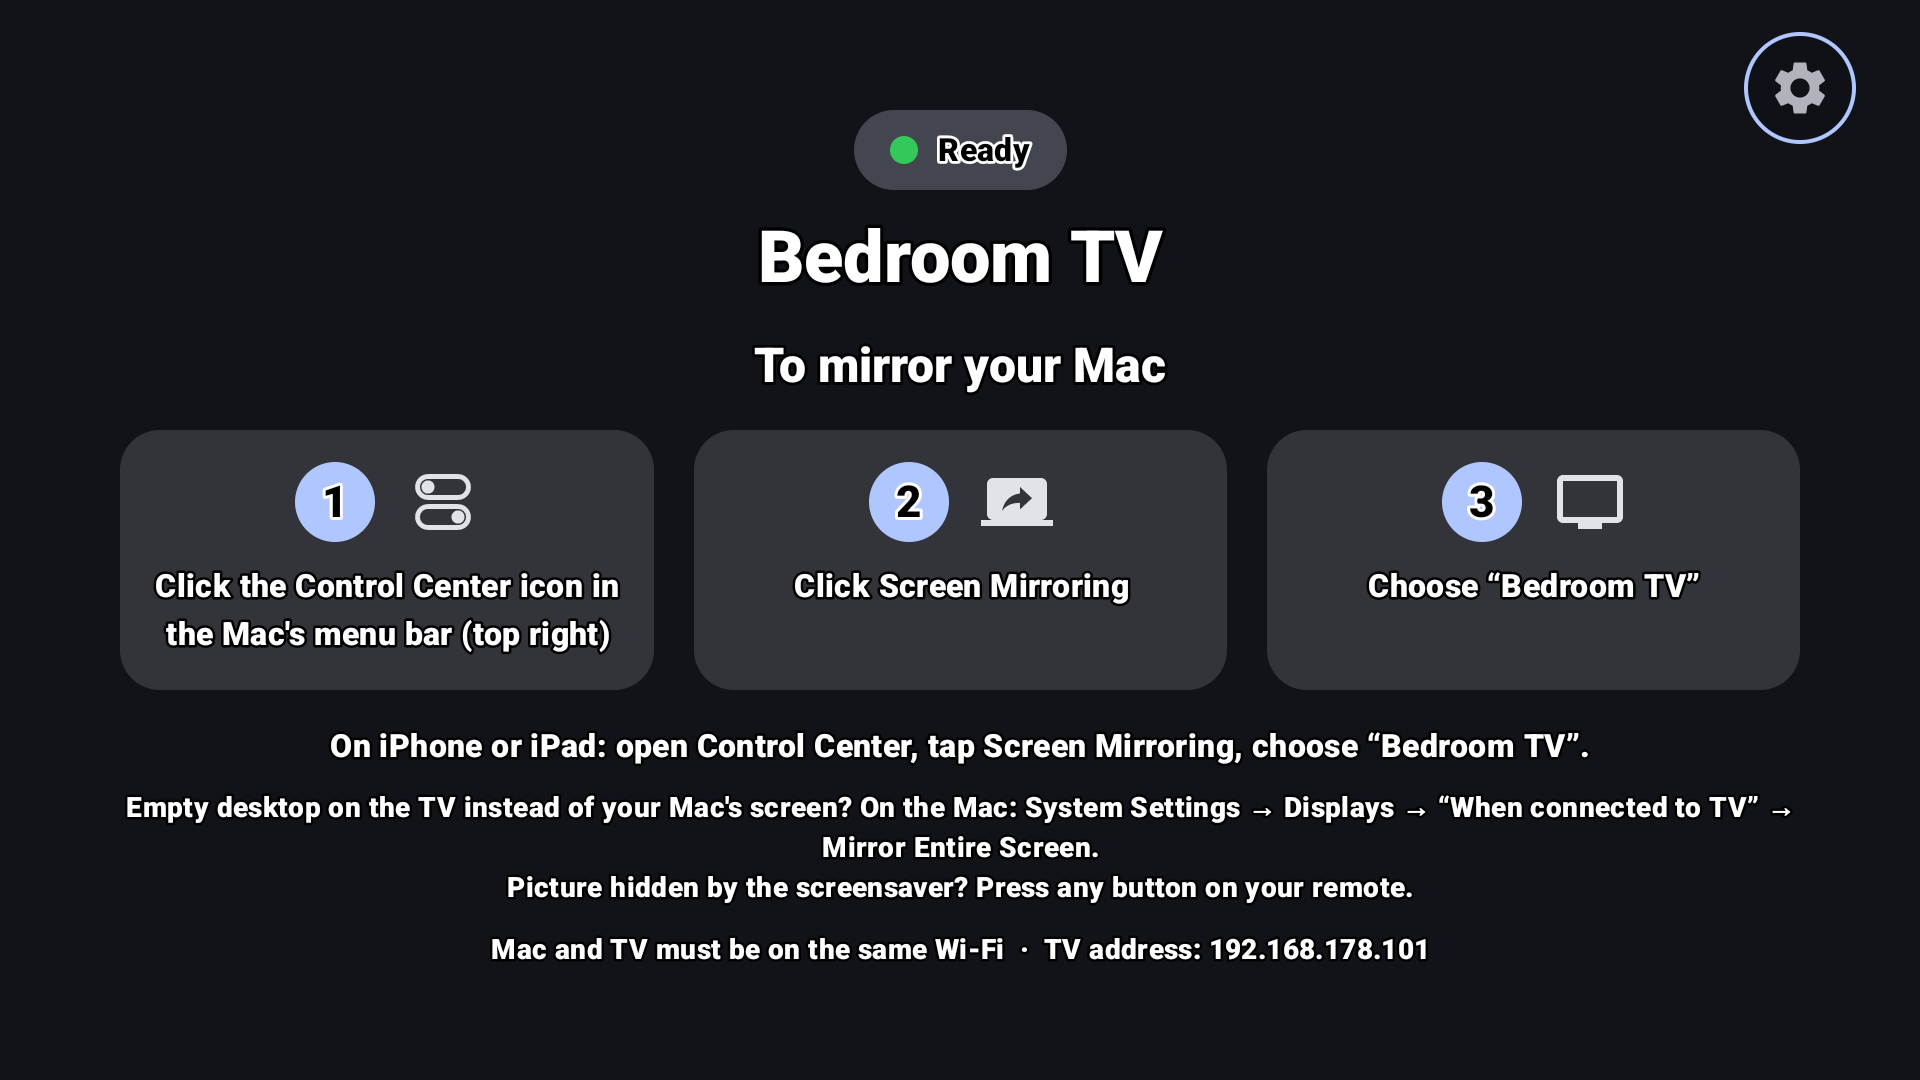
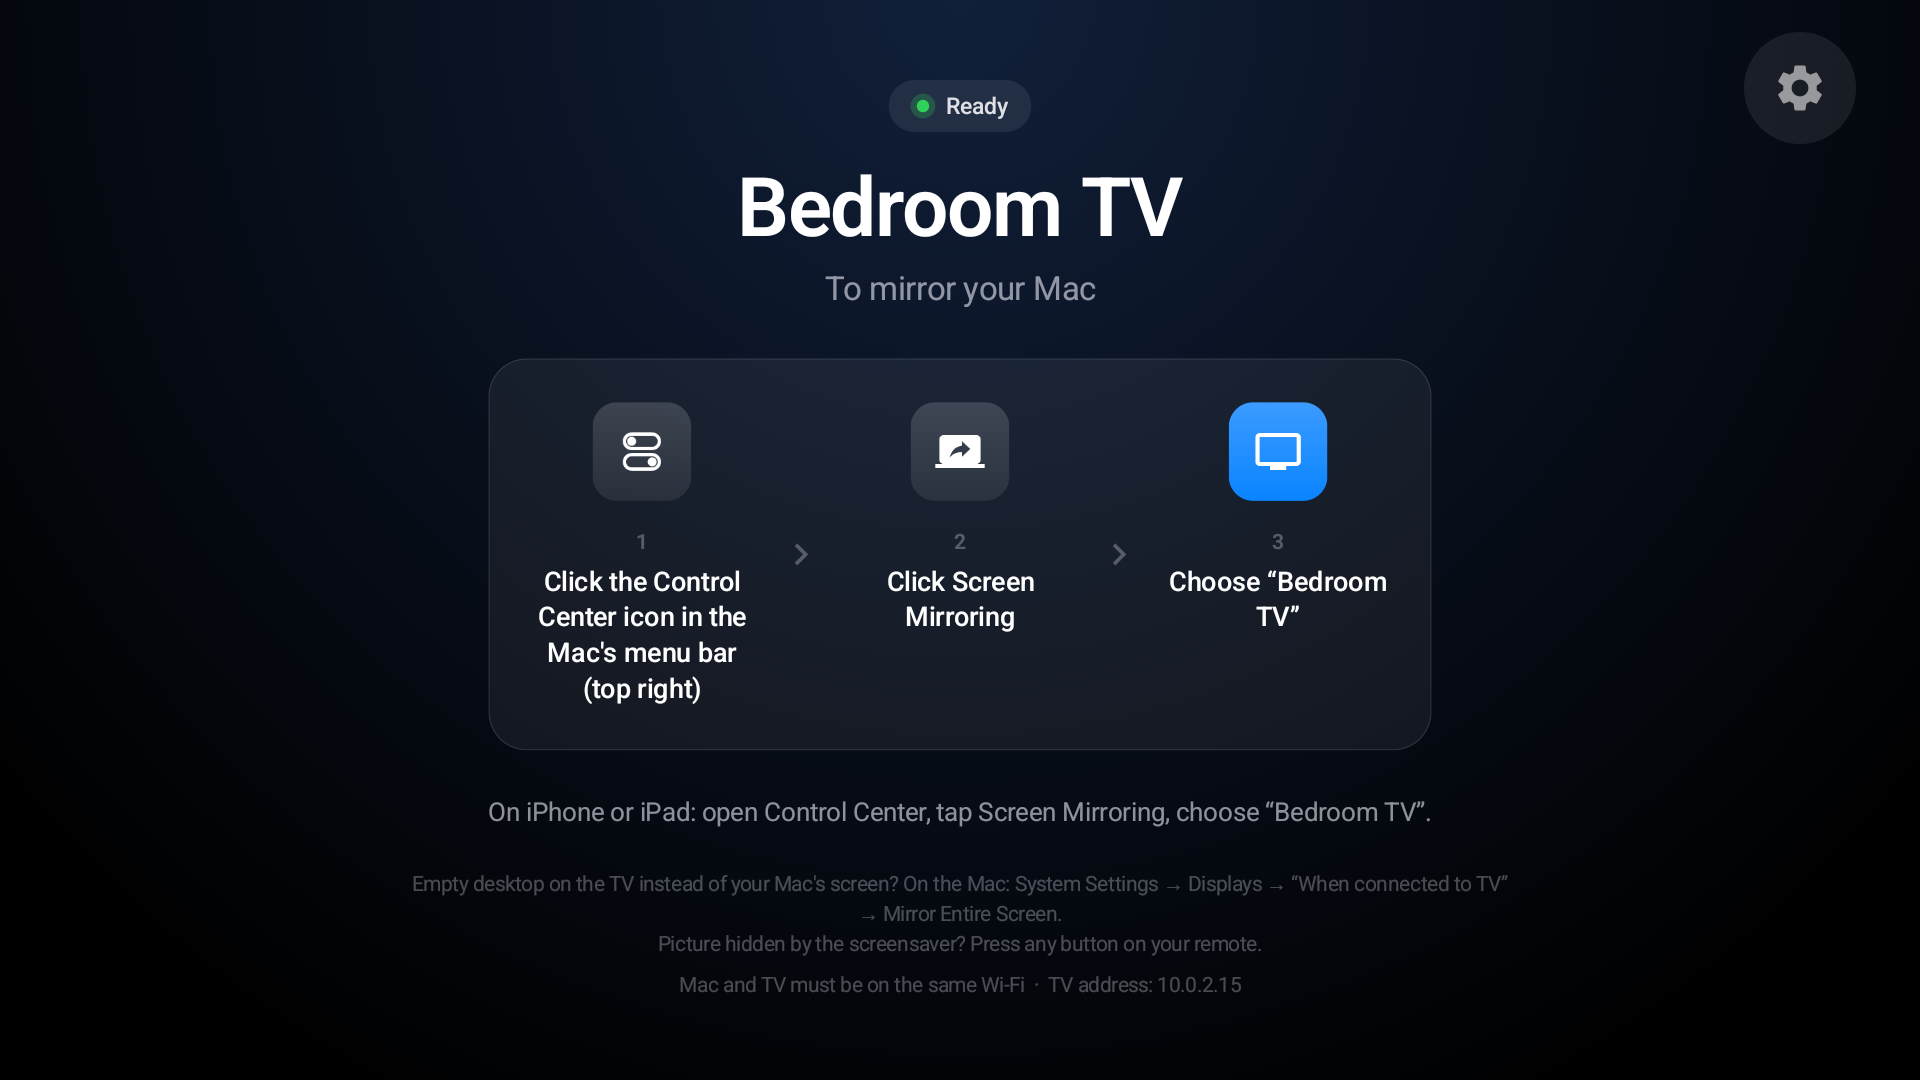
TV: Apple-style Ready screen and dark theme (glass steps panel, system colours, tighter type)

diff --git a/app/src/main/kotlin/io/github/jqssun/airplay/ui/HomeScreen.kt b/app/src/main/kotlin/io/github/jqssun/airplay/ui/HomeScreen.kt
@@ -3,10 +3,12 @@ package io.github.jqssun.airplay.ui
 import android.content.Context
 import android.net.ConnectivityManager
 import androidx.compose.foundation.background
+import androidx.compose.foundation.border
 import androidx.compose.foundation.layout.*
 import androidx.compose.foundation.shape.CircleShape
 import androidx.compose.foundation.shape.RoundedCornerShape
 import androidx.compose.material.icons.Icons
+import androidx.compose.material.icons.automirrored.filled.KeyboardArrowRight
 import androidx.compose.material.icons.automirrored.filled.ScreenShare
 import androidx.compose.material.icons.filled.Tv
 import androidx.compose.material3.*
@@ -15,6 +17,10 @@ import androidx.compose.runtime.collectAsState
 import androidx.compose.runtime.getValue
 import androidx.compose.ui.Alignment
 import androidx.compose.ui.Modifier
+import androidx.compose.ui.draw.clip
+import androidx.compose.ui.draw.drawBehind
+import androidx.compose.ui.geometry.Offset
+import androidx.compose.ui.graphics.Brush
 import androidx.compose.ui.focus.FocusRequester
 import androidx.compose.ui.focus.focusRequester
 import androidx.compose.ui.graphics.Color
@@ -28,6 +34,7 @@ import androidx.compose.ui.text.style.TextOverflow
 import androidx.compose.ui.tooling.preview.Devices
 import androidx.compose.ui.tooling.preview.Preview
 import androidx.compose.ui.unit.dp
+import androidx.compose.ui.unit.sp
 import androidx.compose.ui.layout.Layout
 import androidx.compose.ui.unit.Constraints
 import io.github.jqssun.airplay.R
@@ -44,6 +51,15 @@ fun Context.tvIpv4(): String? = runCatching {
 
 enum class HomeStatus { READY, OFF, ERROR, NEEDS_ACCESS }
 
+// tvOS-like palette for the waiting screen: pure black, white text at Apple's label opacities, system blue/green
+private val Label = Color.White
+private val Secondary = Color(0x99EBEBF5)
+private val Tertiary = Color(0x4DEBEBF5)
+private val Glass = Color.White.copy(alpha = 0.06f)
+private val GlassEdge = Color.White.copy(alpha = 0.10f)
+private val SystemBlue = Color(0xFF0A84FF)
+private val SystemGreen = Color(0xFF30D158)
+
 /** Full-screen, calm waiting screen: TV name, status, the exact clicks on a Mac. */
 @Composable
 fun WaitingContent(
@@ -57,93 +73,104 @@ fun WaitingContent(
     actionFocus: FocusRequester,
     modifier: Modifier = Modifier,
 ) {
+    // soft light from above, like the Apple TV home screen; drawn behind the whole screen
+    Box(Modifier.fillMaxSize().background(Color.Black).drawBehind {
+        drawRect(Brush.radialGradient(
+            listOf(Color(0xFF1C3460).copy(alpha = 0.6f), Color.Transparent),
+            center = Offset(size.width / 2, 0f),
+            radius = size.width * 0.65f,
+        ))
+    })
     // TVs crop a few percent off every edge (overscan): keep ~6% clear, and never let the block run off screen
-    FitToScreen(modifier.fillMaxSize().padding(horizontal = 60.dp, vertical = 32.dp)) {
+    FitToScreen(modifier.fillMaxSize().padding(horizontal = 80.dp, vertical = 40.dp)) {
     Column(
         modifier = Modifier.fillMaxWidth(),
         horizontalAlignment = Alignment.CenterHorizontally,
     ) {
         StatusPill(status)
-        Spacer(Modifier.height(12.dp))
+        Spacer(Modifier.height(20.dp))
         Text(
             text = tvName,
-            style = MaterialTheme.typography.displaySmall,
-            color = MaterialTheme.colorScheme.onBackground,
-            fontWeight = FontWeight.Bold,
+            color = Label,
+            fontSize = 60.sp,
+            lineHeight = 64.sp,
+            letterSpacing = (-1.2).sp,
+            fontWeight = FontWeight.SemiBold,
             textAlign = TextAlign.Center,
             maxLines = 1,
             overflow = TextOverflow.Ellipsis,
         )
 
         if (noticeTitle != null) {
-            Spacer(Modifier.height(20.dp))
-            Card(
-                colors = CardDefaults.cardColors(containerColor = MaterialTheme.colorScheme.secondaryContainer),
-                shape = RoundedCornerShape(16.dp),
-                modifier = Modifier.widthIn(max = 720.dp),
-            ) {
-                Column(Modifier.padding(20.dp), horizontalAlignment = Alignment.CenterHorizontally) {
-                    Text(noticeTitle, style = MaterialTheme.typography.headlineSmall, fontWeight = FontWeight.SemiBold)
-                    Spacer(Modifier.height(6.dp))
-                    if (noticeText != null) Text(
-                        noticeText,
-                        style = MaterialTheme.typography.titleMedium,
-                        textAlign = TextAlign.Center,
-                    )
+            Spacer(Modifier.height(28.dp))
+            GlassPanel(Modifier.widthIn(max = 760.dp)) {
+                Column(Modifier.padding(horizontal = 36.dp, vertical = 28.dp), horizontalAlignment = Alignment.CenterHorizontally) {
+                    Text(noticeTitle, color = Label, fontSize = 26.sp, fontWeight = FontWeight.SemiBold, letterSpacing = (-0.3).sp, textAlign = TextAlign.Center)
+                    if (noticeText != null) {
+                        Spacer(Modifier.height(8.dp))
+                        Text(noticeText, color = Secondary, fontSize = 19.sp, lineHeight = 26.sp, textAlign = TextAlign.Center)
+                    }
                 }
             }
         }
 
         if (actionLabel != null) {
-            Spacer(Modifier.height(24.dp))
-            Button(onClick = onAction, modifier = Modifier.focusRequester(actionFocus).dpadFocus(CircleShape)) {
-                Text(actionLabel, style = MaterialTheme.typography.titleMedium)
+            Spacer(Modifier.height(32.dp))
+            Button(
+                onClick = onAction,
+                colors = ButtonDefaults.buttonColors(containerColor = Color.White, contentColor = Color.Black),
+                contentPadding = PaddingValues(horizontal = 40.dp, vertical = 14.dp),
+                modifier = Modifier.focusRequester(actionFocus).dpadFocus(CircleShape),
+            ) {
+                Text(actionLabel, fontSize = 20.sp, fontWeight = FontWeight.SemiBold)
             }
         }
 
         if (status == HomeStatus.NEEDS_ACCESS) {
-            Spacer(Modifier.height(16.dp))
+            Spacer(Modifier.height(20.dp))
             Text(
                 stringResource(R.string.local_network_desc),
-                style = MaterialTheme.typography.titleMedium,
-                textAlign = TextAlign.Center,
-                color = MaterialTheme.colorScheme.onSurfaceVariant,
+                color = Secondary, fontSize = 19.sp, lineHeight = 26.sp,
+                textAlign = TextAlign.Center, modifier = Modifier.widthIn(max = 760.dp),
             )
         }
 
         if (status == HomeStatus.READY) {
-            Spacer(Modifier.height(16.dp))
-            Text(stringResource(R.string.home_mac_title), style = MaterialTheme.typography.headlineSmall, color = MaterialTheme.colorScheme.onSurfaceVariant)
-            Spacer(Modifier.height(16.dp))
+            Spacer(Modifier.height(10.dp))
+            Text(stringResource(R.string.home_mac_title), color = Secondary, fontSize = 24.sp, textAlign = TextAlign.Center)
+            Spacer(Modifier.height(36.dp))
             MacSteps(tvName)
-            Spacer(Modifier.height(16.dp))
+            Spacer(Modifier.height(32.dp))
             Text(
                 stringResource(R.string.home_iphone, tvName),
-                style = MaterialTheme.typography.titleMedium,
-                textAlign = TextAlign.Center,
-                color = MaterialTheme.colorScheme.onSurfaceVariant,
+                color = Secondary, fontSize = 19.sp, lineHeight = 26.sp,
+                textAlign = TextAlign.Center, modifier = Modifier.widthIn(max = 1000.dp),
             )
-            Spacer(Modifier.height(8.dp))
+            Spacer(Modifier.height(28.dp))
             Text(
                 stringResource(R.string.home_mirror_hint) + "\n" + stringResource(R.string.home_screensaver_hint),
-                style = MaterialTheme.typography.bodyMedium,
-                textAlign = TextAlign.Center,
-                color = MaterialTheme.colorScheme.onSurfaceVariant,
+                color = Tertiary, fontSize = 15.sp, lineHeight = 22.sp,
+                textAlign = TextAlign.Center, modifier = Modifier.widthIn(max = 1000.dp),
             )
         }
 
-        Spacer(Modifier.height(12.dp))
+        Spacer(Modifier.height(if (status == HomeStatus.READY) 8.dp else 28.dp))
         Text(
             text = listOfNotNull(
                 stringResource(R.string.home_same_wifi),
                 address?.let { stringResource(R.string.home_tv_address, it) },
             ).joinToString("  ·  "),
-            style = MaterialTheme.typography.bodyMedium,
+            color = Tertiary, fontSize = 15.sp, lineHeight = 22.sp,
             textAlign = TextAlign.Center,
-            color = MaterialTheme.colorScheme.onSurfaceVariant.copy(alpha = 0.8f),
         )
     }
     }
+}
+
+@Composable
+private fun GlassPanel(modifier: Modifier = Modifier, content: @Composable () -> Unit) {
+    val shape = RoundedCornerShape(28.dp)
+    Box(modifier.clip(shape).background(Glass).border(1.dp, GlassEdge, shape)) { content() }
 }
 
 /** Centers [content]; if it is taller or wider than the space (big fonts, long names, a notice), shrinks it to fit. */
@@ -162,7 +189,7 @@ private fun FitToScreen(modifier: Modifier, content: @Composable () -> Unit) {
 @Composable
 private fun StatusPill(status: HomeStatus) {
     val ok = status == HomeStatus.READY
-    val dot = if (ok) Color(0xFF34C759) else MaterialTheme.colorScheme.error
+    val dot = if (ok) SystemGreen else Color(0xFFFF9F0A)
     val label = when (status) {
         HomeStatus.READY -> R.string.status_ready
         HomeStatus.OFF -> R.string.status_off
@@ -172,12 +199,15 @@ private fun StatusPill(status: HomeStatus) {
     Row(
         verticalAlignment = Alignment.CenterVertically,
         modifier = Modifier
-            .background(MaterialTheme.colorScheme.surfaceVariant, CircleShape)
-            .padding(horizontal = 18.dp, vertical = 8.dp),
+            .background(Color.White.copy(alpha = 0.08f), CircleShape)
+            .padding(horizontal = 16.dp, vertical = 7.dp),
     ) {
-        Box(Modifier.size(14.dp).background(dot, CircleShape))
-        Spacer(Modifier.width(10.dp))
-        Text(stringResource(label), style = MaterialTheme.typography.titleMedium)
+        // a soft halo makes the dot read as a light, not a sticker
+        Box(Modifier.size(18.dp).background(dot.copy(alpha = 0.25f), CircleShape), contentAlignment = Alignment.Center) {
+            Box(Modifier.size(9.dp).background(dot, CircleShape))
+        }
+        Spacer(Modifier.width(8.dp))
+        Text(stringResource(label), color = Label.copy(alpha = 0.85f), fontSize = 17.sp, fontWeight = FontWeight.Medium)
     }
 }
 
@@ -188,41 +218,49 @@ private fun MacSteps(tvName: String) {
         rememberVectorPainter(Icons.AutoMirrored.Filled.ScreenShare) to stringResource(R.string.home_step2),
         rememberVectorPainter(Icons.Default.Tv) to stringResource(R.string.home_step3, tvName),
     )
-    BoxWithConstraints(Modifier.widthIn(max = 1100.dp)) {
+    BoxWithConstraints(Modifier.widthIn(max = 1120.dp)) {
         val wide = maxWidth >= 600.dp
-        val cards: @Composable (Modifier) -> Unit = { m ->
-            steps.forEachIndexed { i, (icon, text) -> StepCard(i + 1, icon, text, m) }
-        }
-        if (wide) {
-            Row(horizontalArrangement = Arrangement.spacedBy(20.dp), modifier = Modifier.height(IntrinsicSize.Max)) {
-                cards(Modifier.weight(1f).fillMaxHeight())
+        GlassPanel(Modifier.fillMaxWidth(if (wide) 0.86f else 1f)) {
+            if (wide) {
+                Row(
+                    verticalAlignment = Alignment.CenterVertically,
+                    modifier = Modifier.height(IntrinsicSize.Max).padding(horizontal = 12.dp, vertical = 32.dp),
+                ) {
+                    steps.forEachIndexed { i, (icon, text) ->
+                        if (i > 0) Icon(
+                            Icons.AutoMirrored.Filled.KeyboardArrowRight, contentDescription = null,
+                            tint = Tertiary, modifier = Modifier.size(32.dp),
+                        )
+                        Step(i + 1, icon, text, last = i == steps.lastIndex, Modifier.weight(1f).fillMaxHeight())
+                    }
+                }
+            } else {
+                Column(Modifier.padding(vertical = 20.dp), verticalArrangement = Arrangement.spacedBy(20.dp)) {
+                    steps.forEachIndexed { i, (icon, text) -> Step(i + 1, icon, text, i == steps.lastIndex, Modifier.fillMaxWidth()) }
+                }
             }
-        } else {
-            Column(verticalArrangement = Arrangement.spacedBy(12.dp)) { cards(Modifier.fillMaxWidth()) }
         }
     }
 }
 
 @Composable
-private fun StepCard(number: Int, icon: Painter, text: String, modifier: Modifier) {
-    Card(modifier = modifier, shape = RoundedCornerShape(20.dp)) {
-        Column(
-            modifier = Modifier.fillMaxWidth().padding(16.dp),
-            horizontalAlignment = Alignment.CenterHorizontally,
+private fun Step(number: Int, icon: Painter, text: String, last: Boolean, modifier: Modifier) {
+    Column(modifier.padding(horizontal = 16.dp), horizontalAlignment = Alignment.CenterHorizontally) {
+        // the last step is the goal, so it gets the accent; the others stay quiet glass
+        val tile = RoundedCornerShape(18.dp)
+        Box(
+            Modifier.size(72.dp).clip(tile).background(
+                if (last) Brush.verticalGradient(listOf(Color(0xFF3B9BFF), SystemBlue))
+                else Brush.verticalGradient(listOf(Color.White.copy(alpha = 0.16f), Color.White.copy(alpha = 0.08f)))
+            ),
+            contentAlignment = Alignment.Center,
         ) {
-            Row(verticalAlignment = Alignment.CenterVertically) {
-                Box(
-                    Modifier.size(40.dp).background(MaterialTheme.colorScheme.primary, CircleShape),
-                    contentAlignment = Alignment.Center,
-                ) {
-                    Text("$number", style = MaterialTheme.typography.titleLarge, color = MaterialTheme.colorScheme.onPrimary, fontWeight = FontWeight.Bold)
-                }
-                Spacer(Modifier.width(16.dp))
-                Icon(icon, contentDescription = null, modifier = Modifier.size(36.dp), tint = MaterialTheme.colorScheme.onSurface)
-            }
-            Spacer(Modifier.height(10.dp))
-            Text(text, style = MaterialTheme.typography.titleMedium, textAlign = TextAlign.Center)
+            Icon(icon, contentDescription = null, modifier = Modifier.size(36.dp), tint = Color.White)
         }
+        Spacer(Modifier.height(18.dp))
+        Text("$number", color = Tertiary, fontSize = 15.sp, fontWeight = FontWeight.SemiBold)
+        Spacer(Modifier.height(4.dp))
+        Text(text, color = Label, fontSize = 20.sp, lineHeight = 26.sp, fontWeight = FontWeight.Medium, textAlign = TextAlign.Center)
     }
 }
 

diff --git a/app/src/main/kotlin/io/github/jqssun/airplay/ui/theme/Theme.kt b/app/src/main/kotlin/io/github/jqssun/airplay/ui/theme/Theme.kt
@@ -4,12 +4,46 @@ import android.os.Build
 import androidx.compose.foundation.isSystemInDarkTheme
 import androidx.compose.material3.MaterialTheme
 import androidx.compose.material3.darkColorScheme
-import androidx.compose.material3.dynamicDarkColorScheme
 import androidx.compose.material3.dynamicLightColorScheme
 import androidx.compose.material3.lightColorScheme
 import androidx.compose.runtime.Composable
 import androidx.compose.ui.platform.LocalContext
+import androidx.compose.material3.Typography
+import androidx.compose.ui.graphics.Color
+import androidx.compose.ui.text.TextStyle
+import androidx.compose.ui.unit.sp
 import io.github.jqssun.airplay.ui.isTv
+
+// Apple's dark system colors (tvOS/iOS): neutral greys instead of Material's tinted ones, system blue accent
+private val AppleDark = darkColorScheme(
+    primary = Color(0xFF0A84FF), onPrimary = Color.White,
+    // focused cards turn white with dark text, like a focused tile on Apple TV
+    primaryContainer = Color.White, onPrimaryContainer = Color.Black,
+    secondary = Color(0xFF98989F), onSecondary = Color.Black,
+    secondaryContainer = Color(0xFF2C2C2E), onSecondaryContainer = Color.White,
+    tertiary = Color(0xFF30D158), onTertiary = Color.Black,
+    tertiaryContainer = Color(0xFF1E3A26), onTertiaryContainer = Color(0xFF30D158),
+    background = Color.Black, onBackground = Color.White,
+    surface = Color(0xFF000000), onSurface = Color.White,
+    surfaceVariant = Color(0xFF2C2C2E), onSurfaceVariant = Color(0x99EBEBF5),
+    surfaceContainerLowest = Color.Black, surfaceContainerLow = Color(0xFF111113),
+    surfaceContainer = Color(0xFF1C1C1E), surfaceContainerHigh = Color(0xFF242426),
+    surfaceContainerHighest = Color(0xFF2C2C2E),
+    outline = Color(0xFF48484A), outlineVariant = Color(0xFF38383A),
+    error = Color(0xFFFF453A), onError = Color.White,
+)
+
+// Material spaces letters out (up to +0.5sp); Apple tightens big text and keeps body text near zero
+private val AppleTracking = Typography().run {
+    fun TextStyle.t(sp: Double) = copy(letterSpacing = sp.sp)
+    copy(
+        displayLarge = displayLarge.t(-1.0), displayMedium = displayMedium.t(-0.8), displaySmall = displaySmall.t(-0.6),
+        headlineLarge = headlineLarge.t(-0.5), headlineMedium = headlineMedium.t(-0.4), headlineSmall = headlineSmall.t(-0.3),
+        titleLarge = titleLarge.t(-0.3), titleMedium = titleMedium.t(-0.2), titleSmall = titleSmall.t(-0.1),
+        bodyLarge = bodyLarge.t(-0.2), bodyMedium = bodyMedium.t(-0.1), bodySmall = bodySmall.t(0.0),
+        labelLarge = labelLarge.t(-0.1), labelMedium = labelMedium.t(0.0), labelSmall = labelSmall.t(0.0),
+    )
+}
 
 @Composable
 fun AirPlayTheme(
@@ -18,13 +52,10 @@ fun AirPlayTheme(
     content: @Composable () -> Unit
 ) {
     val colorScheme = when {
-        Build.VERSION.SDK_INT >= Build.VERSION_CODES.S -> {
-            val ctx = LocalContext.current
-            if (darkTheme) dynamicDarkColorScheme(ctx) else dynamicLightColorScheme(ctx)
-        }
-        darkTheme -> darkColorScheme()
+        darkTheme -> AppleDark
+        Build.VERSION.SDK_INT >= Build.VERSION_CODES.S -> dynamicLightColorScheme(LocalContext.current)
         else -> lightColorScheme()
     }
 
-    MaterialTheme(colorScheme = colorScheme, content = content)
+    MaterialTheme(colorScheme = colorScheme, typography = AppleTracking, content = content)
 }

diff --git a/app/src/main/kotlin/io/github/jqssun/airplay/ui/MainScreen.kt b/app/src/main/kotlin/io/github/jqssun/airplay/ui/MainScreen.kt
@@ -728,7 +728,7 @@ private fun HomeContent(
         }
 
         Row(modifier = Modifier.align(Alignment.TopEnd).safeDrawingPadding().padding(horizontal = 32.dp, vertical = 16.dp)) {
-            val tint = if (mirroringActive) Color.White.copy(alpha = 0.7f) else MaterialTheme.colorScheme.onSurfaceVariant
+            val tint = Color.White.copy(alpha = if (mirroringActive) 0.7f else 0.55f)
             if (running && mirroringActive && !audioMode) {
                 IconButton(onClick = onPip, modifier = Modifier.dpadFocus(CircleShape)) {
                     Icon(painterResource(R.drawable.ic_pip), contentDescription = stringResource(R.string.cd_pip), tint = tint)
@@ -740,8 +740,9 @@ private fun HomeContent(
             IconButton(
                 onClick = onSettings,
                 modifier = Modifier.size(56.dp).focusRequester(gearFocus).dpadFocus(CircleShape)
+                    .thenIf(!mirroringActive) { background(Color.White.copy(alpha = 0.08f), CircleShape) }
             ) {
-                Icon(Icons.Default.Settings, contentDescription = stringResource(R.string.cd_settings), tint = tint, modifier = Modifier.size(32.dp))
+                Icon(Icons.Default.Settings, contentDescription = stringResource(R.string.cd_settings), tint = tint, modifier = Modifier.size(28.dp))
             }
         }
     }

diff --git a/PROJECT_STATUS.md b/PROJECT_STATUS.md
@@ -1,5 +1,12 @@
 # Mirror TV — project status
 
+## APPLE-STYLE LOOK (9 Nov 2026, Sebastian: "make it feel like apple made it")
+- TV Ready screen redesigned in `ui/HomeScreen.kt`: black with a soft blue glow, small "Ready" capsule, big TV name, the three Mac steps in one glass panel with arrows (step 3 in system blue), quieter grey hints. No text changed, so all 31 languages still fit the same strings.
+- `ui/theme/Theme.kt`: dark theme is now Apple's neutral greys + system blue (was Android's purple-tinted dynamic colours); letter spacing tightened app-wide; focused cards turn white like Apple TV tiles (paywall). Settings picks up the colours too.
+- Checked on the TV emulator (home, paywall, Settings). Not on a real TV yet. NOT released: needs a 1.0.3 build + Play upload (his yes).
+- New screenshots: `docs/screens/telebeam-tv-{home,paywall,settings}.png` and the site kit's `apps/telebeam/img/shots/` (old ones kept in this chat's scratchpad). Play listing screenshots still show the old look.
+- Debug tricks: `debug_fake_unlocked` / `debug_sample_prices` via the SettingsReceiver broadcast skip the paywall / show sample prices on the emulator.
+
 ## SUPPORT EMAIL support@telebeam.app (4 Nov 2026, email side chat; Sebastian: "yes to all")
 - iCloud+ Custom Email Domain on telebeam.app (same as diskbeam.app). DNS via Cloudflare Domain Connect: MX
   mx01/mx02.mail.icloud.com, TXT apple-domain + SPF `include:icloud.com`, CNAME sig1._domainkey. Tested both ways
